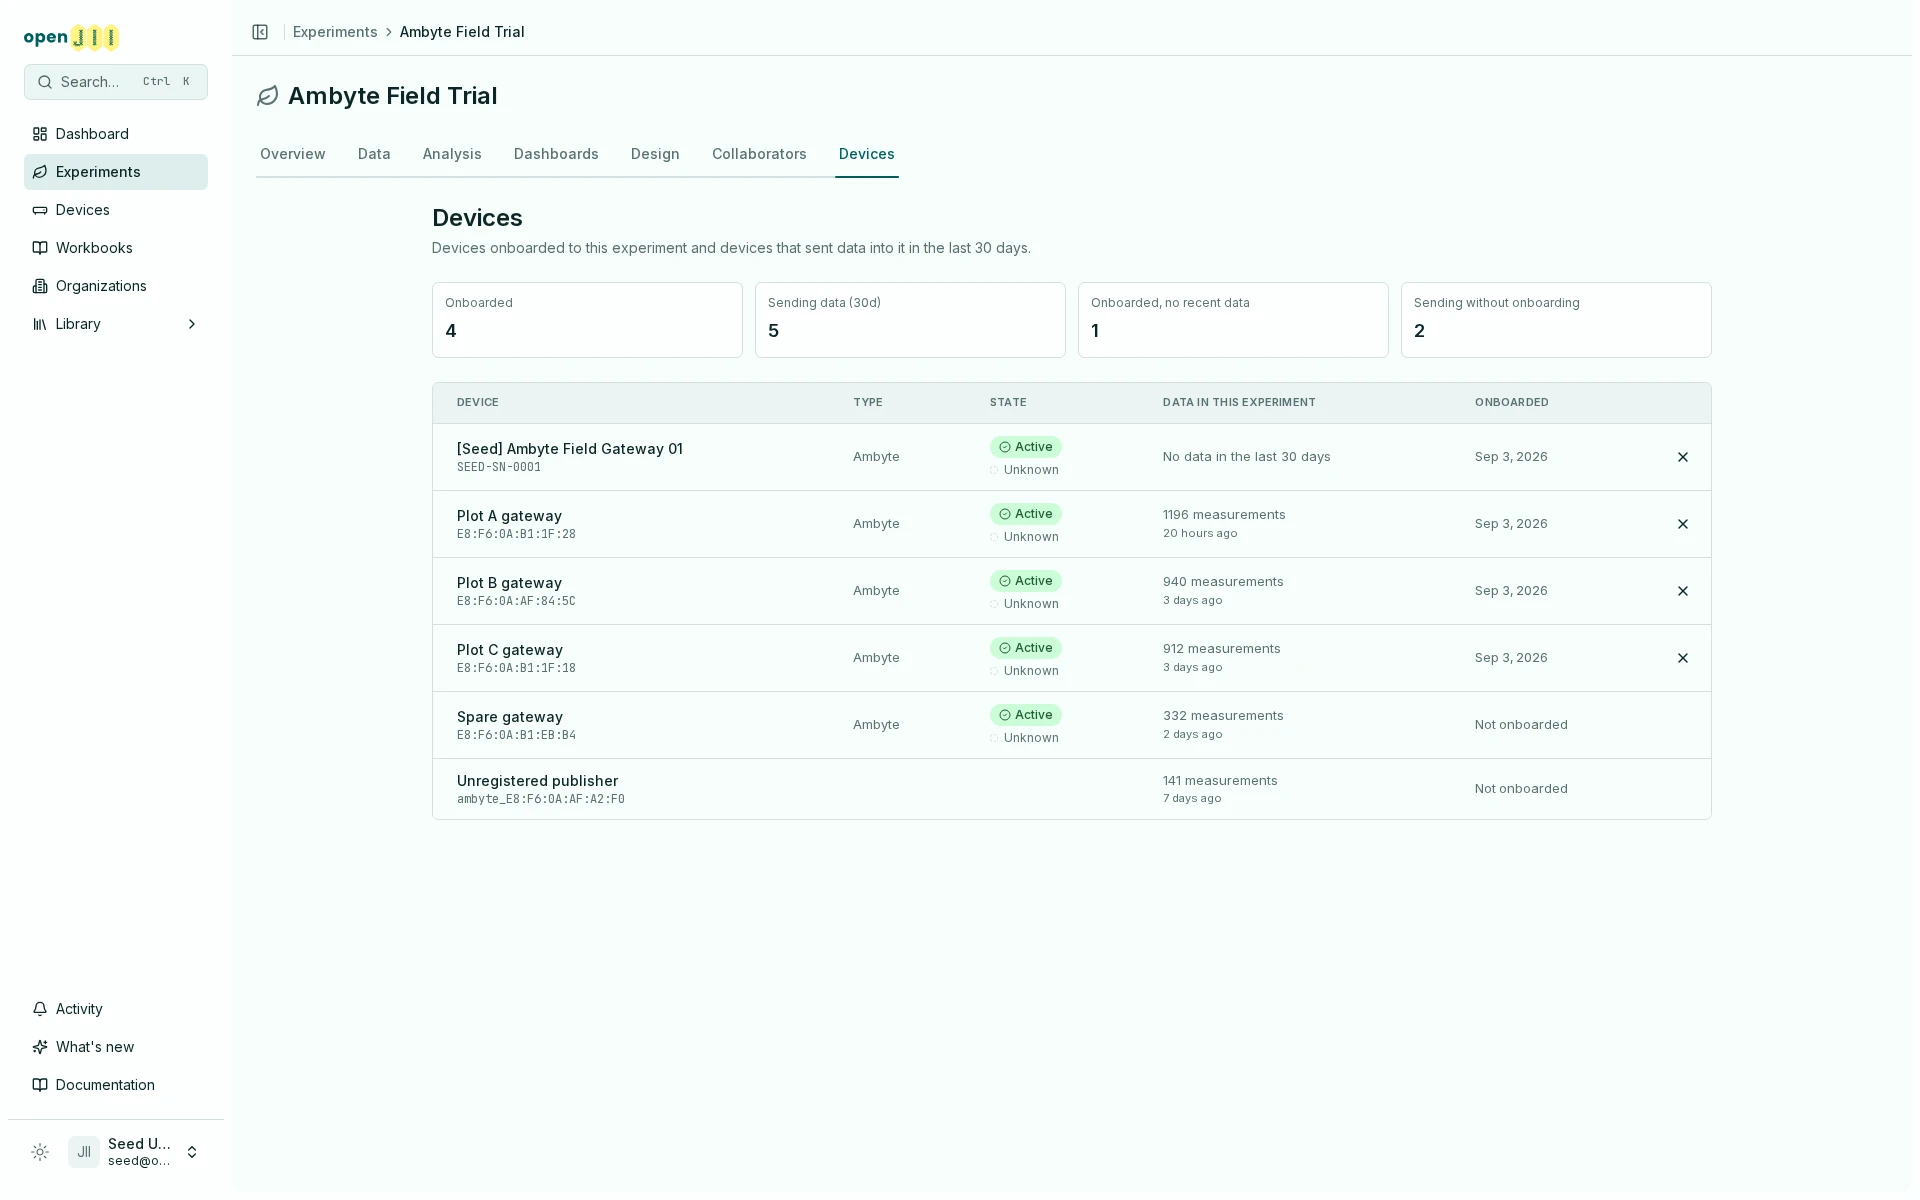
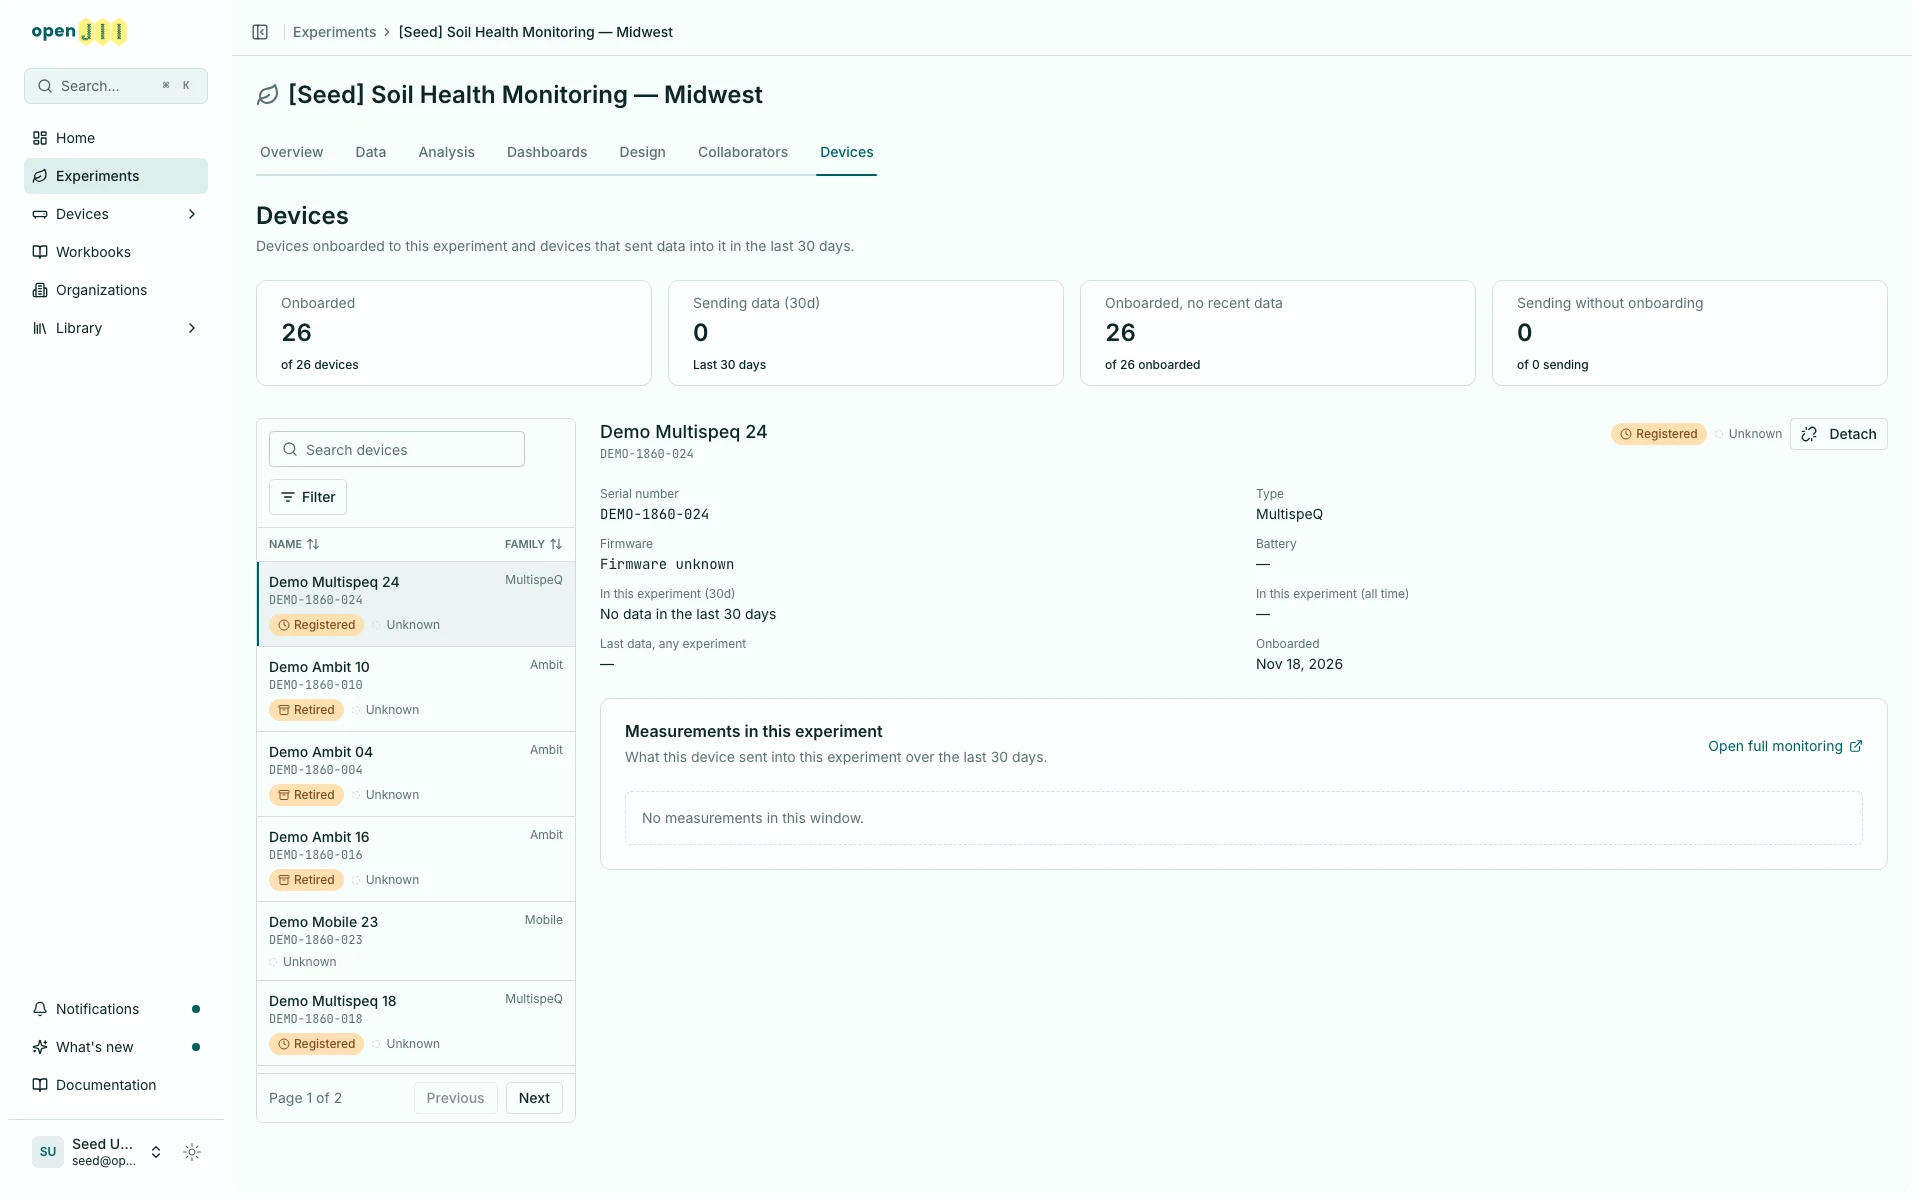
docs(devices): describe device list search, filters and paging
Contributes to OJD-1860

diff --git a/apps/e2e/docs-media/shots.ts b/apps/e2e/docs-media/shots.ts
@@ -346,14 +346,32 @@ export const SHOTS: readonly Shot[] = [
     slug: "experiment-devices",
     publish: "img/guide/web/experiment-devices.webp",
     frame: "desktop",
-    // Needs a local experiment whose id matches one that has published data in
-    // the dev lakehouse; the seed alone yields an empty roster.
-    route: async () => `/platform/experiments/${await experimentId("Ambyte Field Trial")}/devices`,
+    // Local registry devices bound to a seeded experiment. The lakehouse is not
+    // reachable locally, so the tiles read what the registry alone can say.
+    route: async () =>
+      `/platform/experiments/${await experimentId("[Seed] Soil Health Monitoring — Midwest")}/devices`,
     async prepare(page) {
-      await page.getByRole("table").waitFor({ timeout: 60_000 });
+      await page.getByPlaceholder(/search devices/i).waitFor({ timeout: 60_000 });
+      await page.getByRole("button", { name: /^Filter/ }).waitFor();
       await settle(page, 1500);
     },
-    scope: "Experiment Devices tab with onboarded, observed and unregistered devices and its tiles",
+    scope:
+      "Experiment Devices tab with its tiles, searchable and filterable device list and selected device detail",
+  },
+  {
+    slug: "devices-list",
+    publish: "img/guide/web/devices-list.webp",
+    frame: "desktop",
+    route: "/platform/devices",
+    async prepare(page) {
+      await page.getByPlaceholder("Search by name or serial number").waitFor({ timeout: 60_000 });
+      await page.getByRole("button", { name: /^Filter/ }).click();
+      await page.getByRole("option", { name: /^Status/ }).click();
+      await page.getByRole("option", { name: /^Onboarded/ }).waitFor();
+      await settle(page, 1200);
+    },
+    scope:
+      "Device list with search, the Filter menu open on Status with per-status counts, sortable headers and pager",
   },
   {
     slug: "workbook-design",
